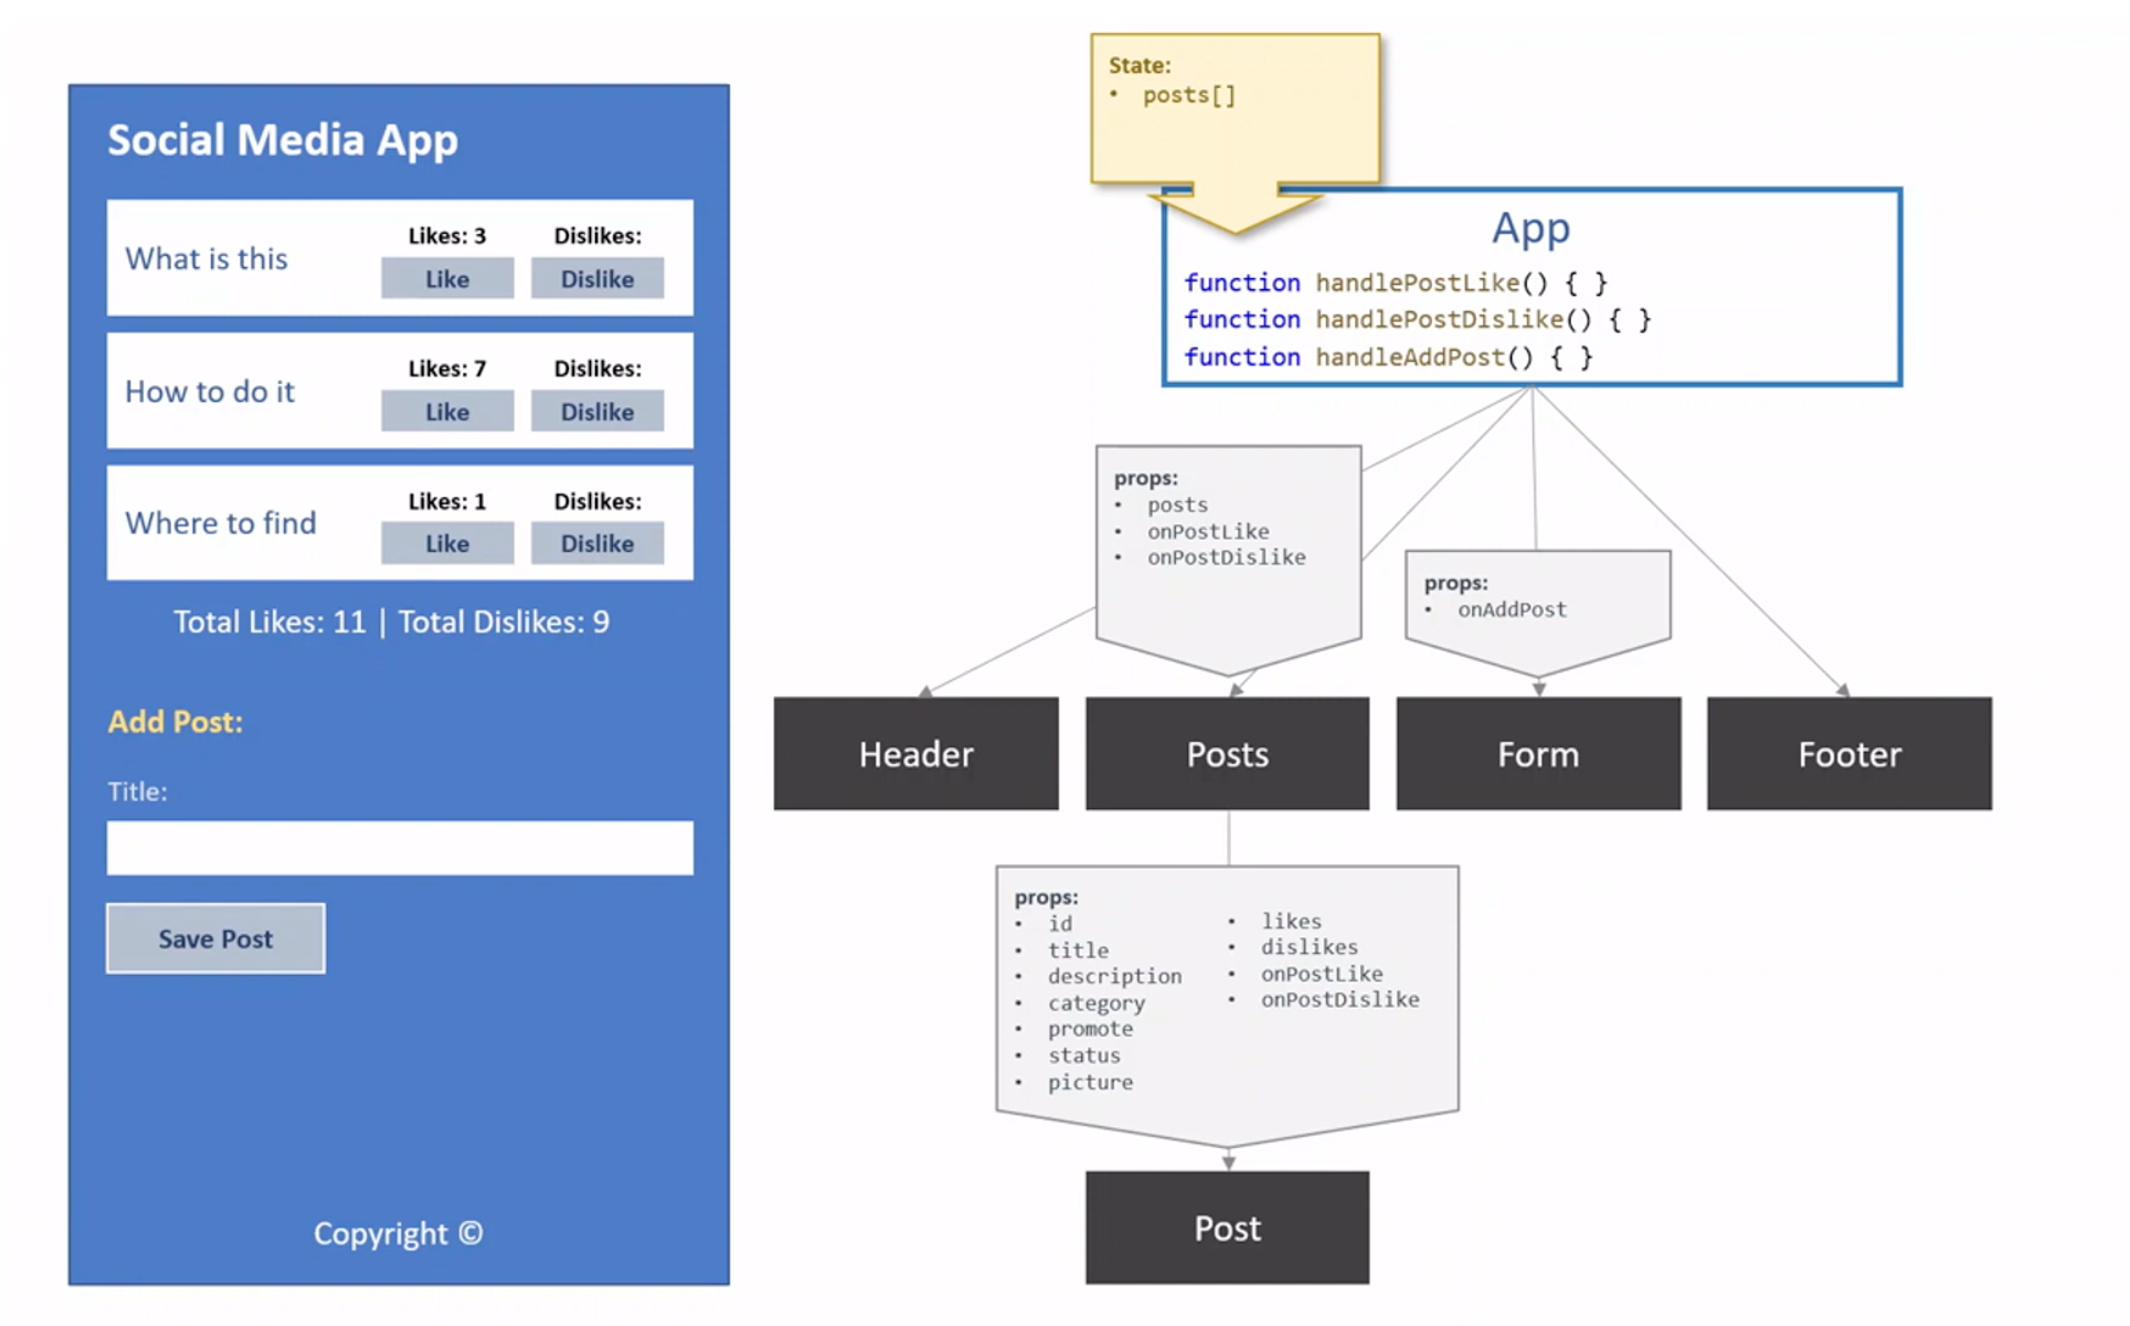
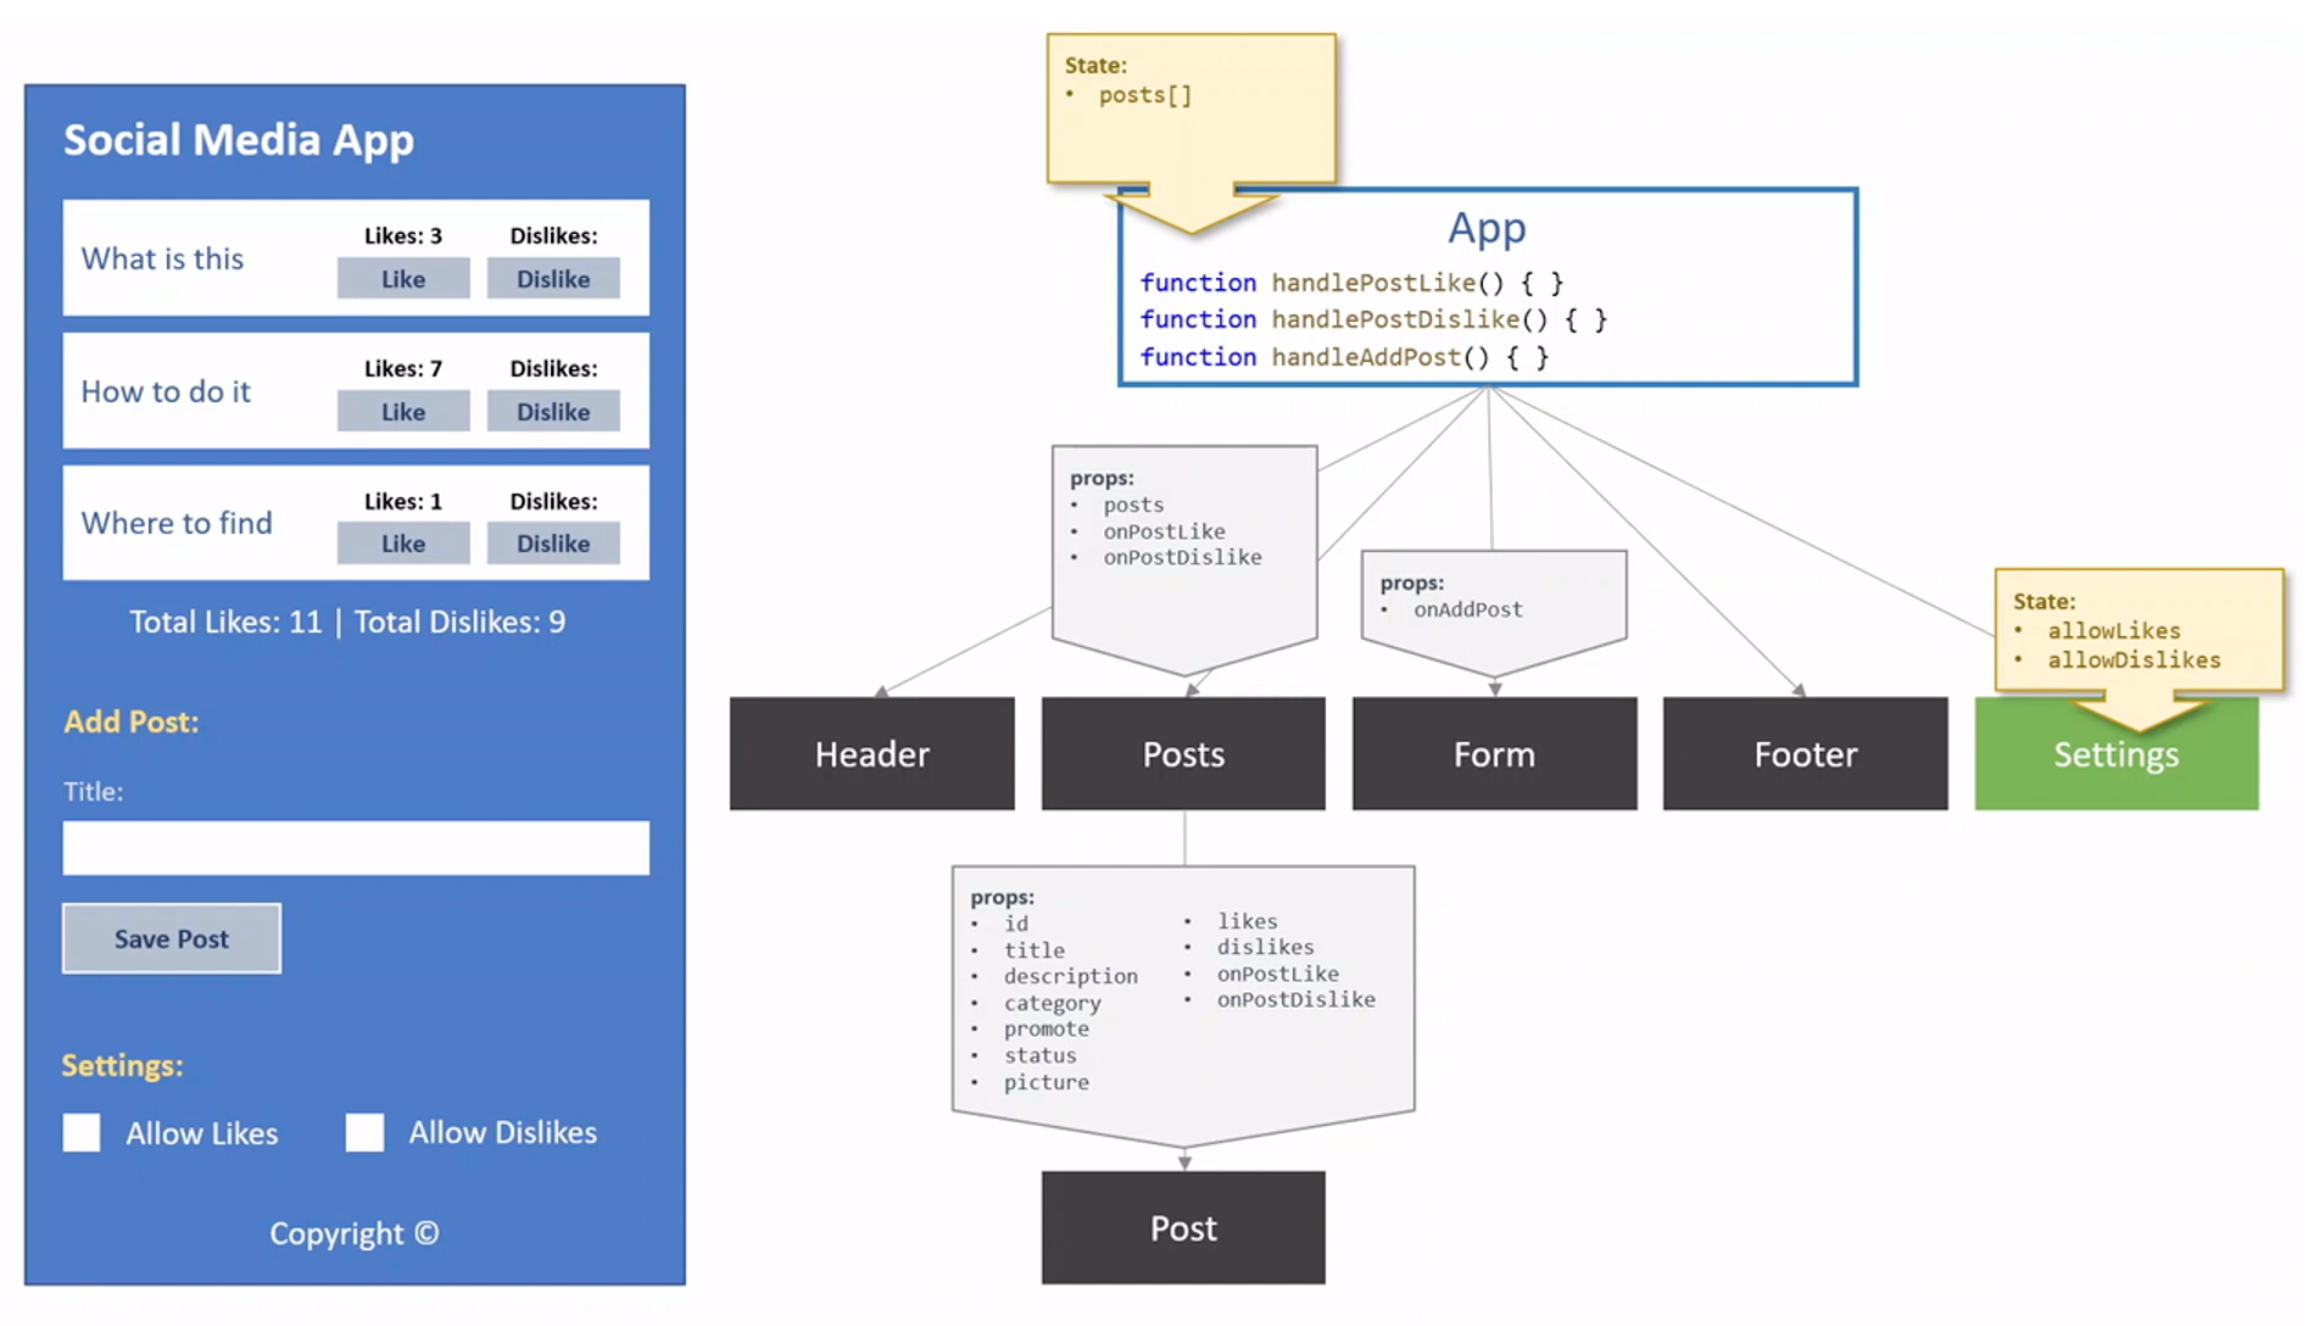
update an image / .scss

diff --git a/src/components/Settings/styles.scss b/src/components/Settings/styles.scss
@@ -2,4 +2,28 @@
 
 .settings-component {
   padding: 1rem;
+
+  h1 {
+    color: $primary-color;
+    margin: 0;
+    padding: 0;
+  }
+
+  .field {
+    padding-top: 0.5rem;
+
+    label {
+      display: flex;
+      align-items: center;
+      color: $text-color;
+      line-height: 1.2rem;
+
+      input {
+        width: 1.2rem;
+        height: 1.2rem;
+        margin-right: 0.5rem;
+      }
+    }
+  }
+
 }
